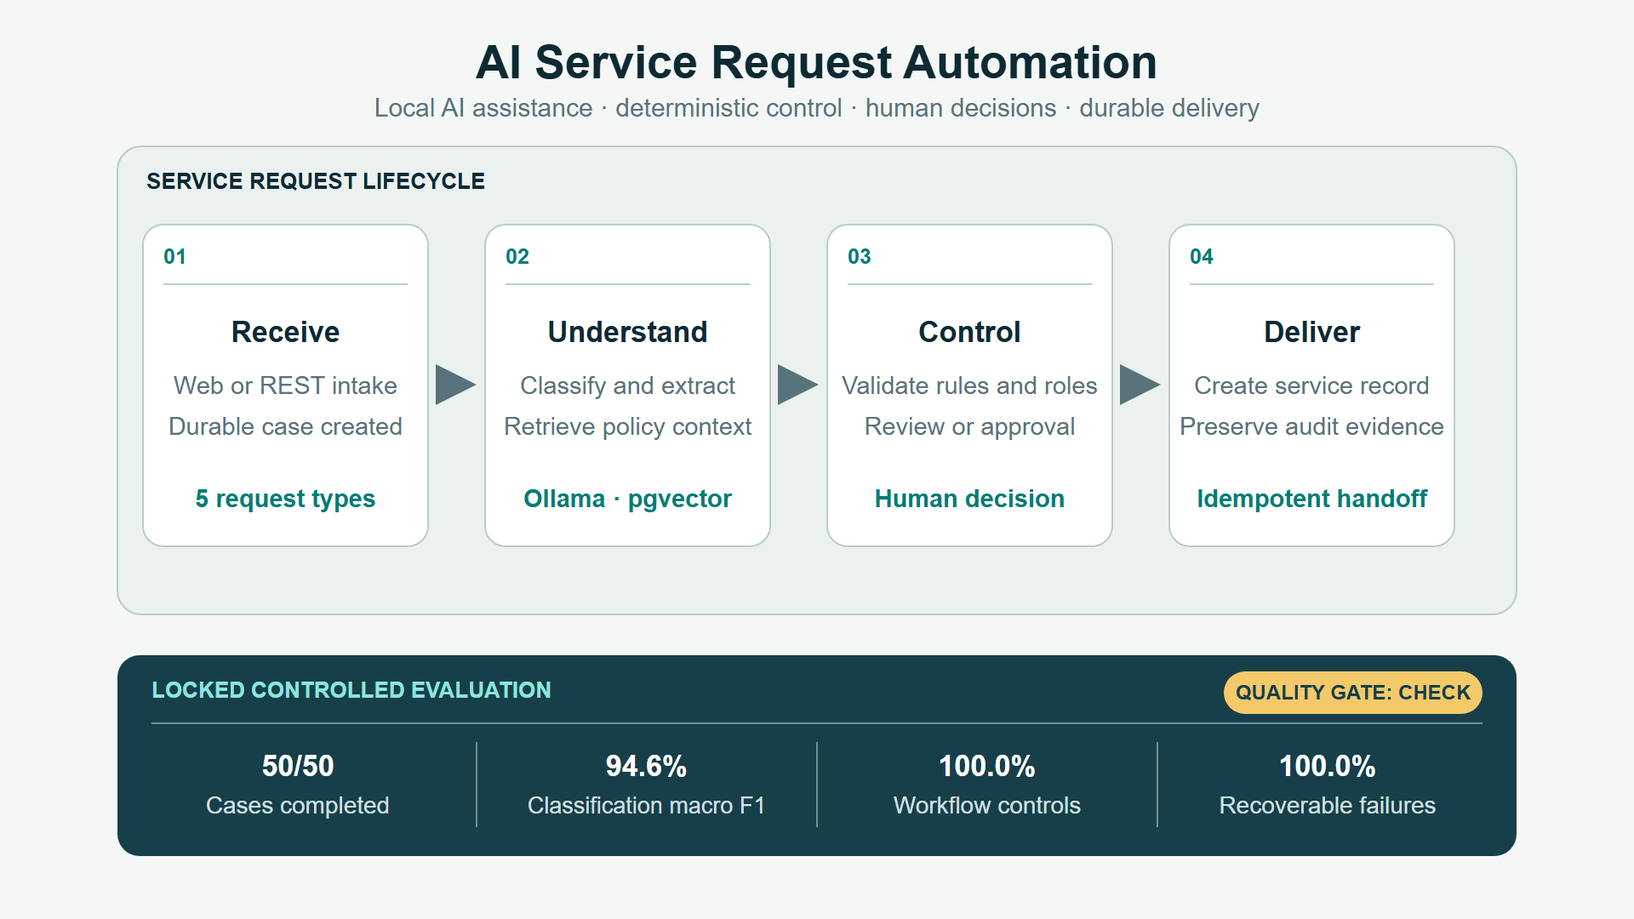
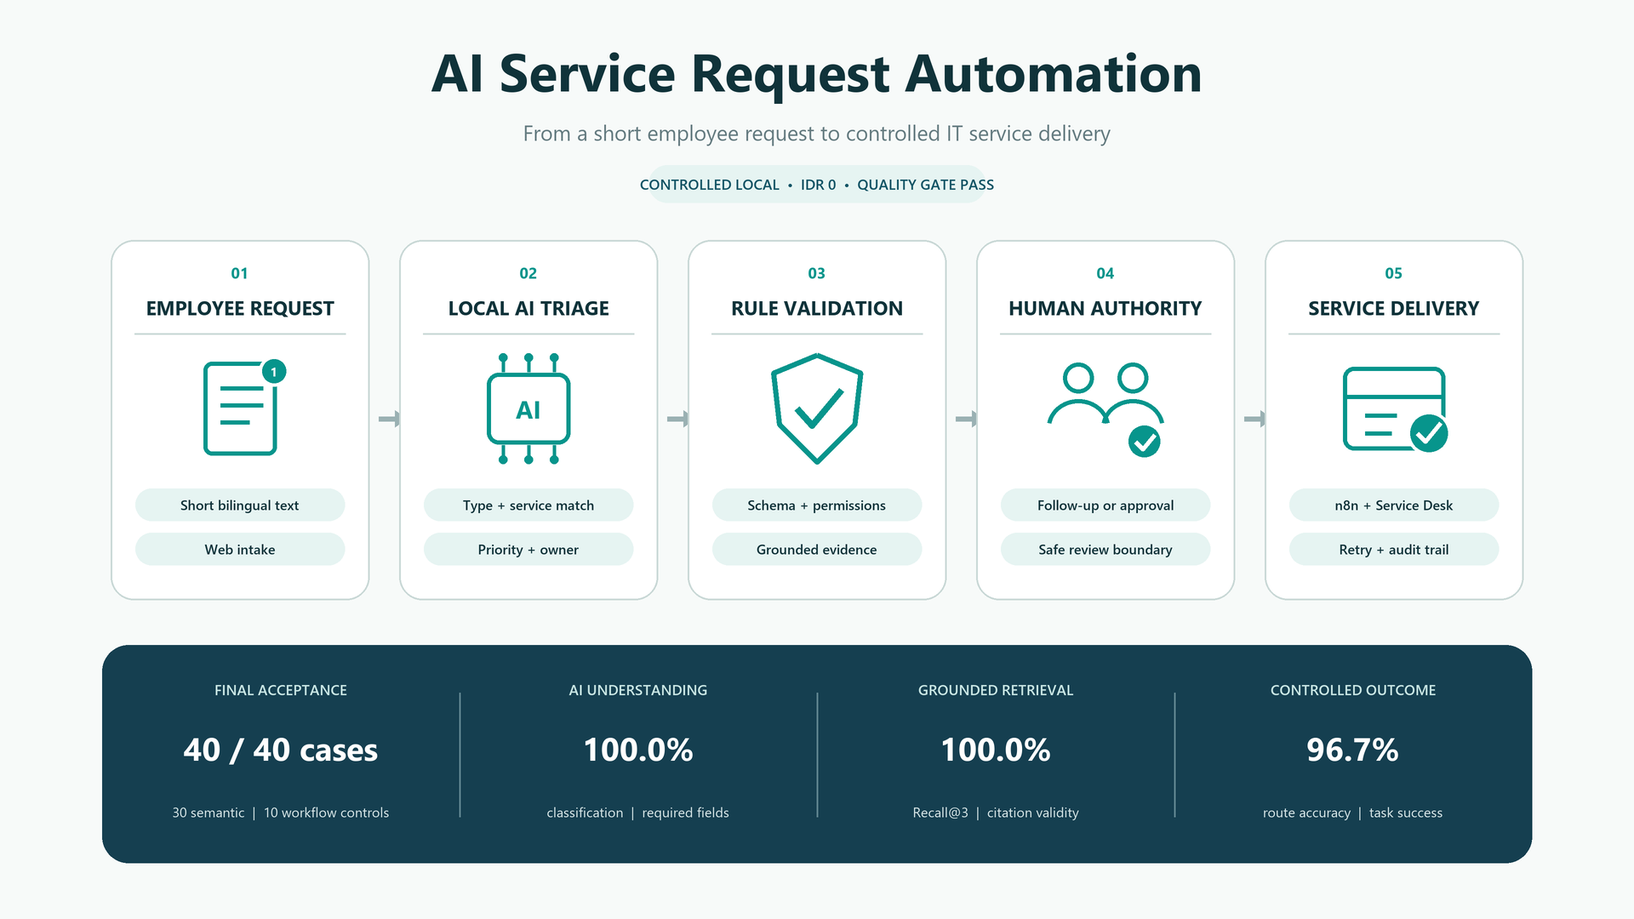
feat: refresh flagship project evidence

diff --git a/index.html b/index.html
@@ -77,7 +77,7 @@
     <script>
       (() => {
         const releaseParameter = "release";
-        const embeddedRelease = "20260820-03";
+        const embeddedRelease = "20260823-01";
         const loadedRelease = new URLSearchParams(window.location.search).get(releaseParameter);
         const releaseMarkerUrl = new URL("site-version.json", window.location.href);
         releaseMarkerUrl.searchParams.set("check", Date.now().toString());
@@ -261,21 +261,21 @@
                   <dl class="case-details">
                     <div><dt>Data &amp; Context</dt><dd>Used 3,000,888 labeled rows from the Kaggle Store Sales competition covering 2013–2017. The prediction contract produces 1 forecast for every date, store, and product-family combination over the next 16 days.</dd></div>
                     <div><dt>Approach</dt><dd>Compared 3 Ridge settings with 27 XGBoost configurations on a fixed chronological validation window. XGBoost was selected by RMSLE, then the frozen configuration was evaluated in 1 protected internal-test window.</dd></div>
-                    <div><dt>Validation &amp; Delivery</dt><dd>The selected model recorded internal-test RMSLE of 0.4140 and WAPE of 15.6431%. Its versioned artifact generated 28,512 forecasts, while fresh-process batch, local FastAPI, and healthy Docker inference matched the notebook output. All 38 synthetic contract tests also passed in GitHub Actions.</dd></div>
+                    <div><dt>Validation &amp; Delivery</dt><dd>The selected model recorded internal-test RMSLE of 0.4140 and WAPE of 15.6431%. Its versioned artifact generated 28,512 forecasts, while fresh-process batch, local FastAPI, and healthy Docker inference matched the notebook output. All 44 core contract tests also passed in GitHub Actions.</dd></div>
                   </dl>
                 </details>
               </div>
               <div class="project-result-column">
                 <figure class="project-visual">
-                  <a class="project-image-link" href="assets/projects/retail-sales-forecasting.png?v=20260816g" target="_blank" rel="noopener noreferrer" aria-label="Open the retail forecasting system visual at full size">
-                    <img src="assets/projects/retail-sales-forecasting.png?v=20260816g" alt="Retail forecasting flow from 6 source tables through forecast-safe features, Ridge and XGBoost selection by validation RMSLE, a versioned artifact, and matching batch, FastAPI, and Docker inference" width="1920" height="1080" loading="lazy" decoding="async">
+                  <a class="project-image-link" href="assets/projects/retail-sales-forecasting.png?v=20260821a" target="_blank" rel="noopener noreferrer" aria-label="Open the retail forecasting system visual at full size">
+                    <img src="assets/projects/retail-sales-forecasting.png?v=20260821a" alt="Retail forecasting flow from 6 source tables through forecast-safe features, Ridge and XGBoost selection by validation RMSLE, a versioned artifact, and matching batch, FastAPI, and Docker inference" width="1920" height="1080" loading="lazy" decoding="async">
                   </a>
                   <figcaption>1 versioned XGBoost artifact drives the same 16-day contract across batch, FastAPI, and Docker inference.</figcaption>
                 </figure>
                 <div class="metric-row" aria-label="Retail forecasting internal-test and delivery results">
                   <div><strong>15.6431%</strong><span>Internal-Test WAPE</span></div>
                   <div><strong>28,512</strong><span>16-Day Forecast Rows</span></div>
-                  <div><strong>38/38</strong><span>Contract Tests Passed</span></div>
+                  <div><strong>44/44</strong><span>Core Contract Tests Passed</span></div>
                 </div>
                 <p class="project-output"><strong>Project Output</strong><span>The system produces a checked 16-day forecast for every store-family series, giving planning teams a consistent demand view through the same reusable artifact across batch, API, and containerized inference.</span></p>
                 <p class="project-interpretation"><strong>Evidence &amp; Scope</strong><span>1 fixed validation window and 1 protected internal-test window establish RMSLE, WAPE, and signed-bias evidence on 2013–2017 competition data. The locally verified containerized API serves the complete 28,512-row, 16-day product-family forecast through the same versioned artifact used by batch inference.</span></p>
@@ -292,33 +292,33 @@
                 <div class="project-kicker"><span>03</span><p>AI automation &amp; workflow engineering | Python/FastAPI, n8n, PostgreSQL/pgvector, Ollama, Docker</p></div>
                 <h3>AI Service Request Automation</h3>
                 <dl class="case-details">
-                  <div><dt>Problem</dt><dd>Service teams repeatedly interpret requests, verify required details, consult policies, decide routes, create downstream records, and communicate outcomes. Manual handling makes consistent decisions, duplicate protection, failure recovery, and auditability difficult to maintain.</dd></div>
-                  <div><dt>My Contribution</dt><dd>Designed and implemented 1 end-to-end automation for 5 request types across REST and web intake, local AI analysis, policy retrieval, deterministic validation, role-based human decisions, durable orchestration, downstream delivery, notification, and operational recovery.</dd></div>
+                  <div><dt>Problem</dt><dd>Employees often submit short bilingual IT messages instead of complete ticket fields. Service teams must repeatedly infer the issue, catalog owner, priority, missing question, policy, and next action before useful work can begin.</dd></div>
+                  <div><dt>My Contribution</dt><dd>Designed and implemented 1 end-to-end automation spanning web and REST intake, an 8-category IT catalog, local AI analysis and retrieval, deterministic controls, human authority, durable n8n orchestration, Service Desk delivery, notification, retry, and recovery.</dd></div>
                 </dl>
                 <details class="project-deep-dive">
                   <summary>Technical details</summary>
                   <dl class="case-details">
-                    <div><dt>Data &amp; Context</dt><dd>The controlled local system handles policy questions, incident reports, access requests, data-change requests, and status requests using fictional bilingual cases, policies, users, permissions, and downstream records.</dd></div>
-                    <div><dt>Approach</dt><dd>FastAPI and PostgreSQL own permissions, state, approvals, idempotency, retries, and audit evidence. n8n coordinates 3 workflow entries, Ollama supplies local analysis and embeddings, and a separate Service Desk Sandbox reproduces downstream outcomes.</dd></div>
-                    <div><dt>Validation &amp; Controls</dt><dd>The locked 50-case evaluation reached 94.6% classification macro F1, 88.3% required-field accuracy, 30.0% route accuracy, and 20.0% semantic task success. The fixed quality gate is CHECK, so human review remains part of the reliable operating boundary.</dd></div>
+                    <div><dt>Data &amp; Context</dt><dd>The controlled local system handles 5 backend request types across 8 employee IT categories using fictional English and Indonesian cases, policies, identities, permissions, approvals, and downstream records.</dd></div>
+                    <div><dt>Approach</dt><dd>FastAPI and PostgreSQL own permissions, state, validation, approvals, idempotency, and audit evidence. n8n coordinates authenticated workflow entries, while local Ollama models provide structured analysis, catalog matching, and grounded policy retrieval behind deterministic and human controls.</dd></div>
+                    <div><dt>Validation &amp; Controls</dt><dd>The frozen final gate completed 40/40 cases. Classification, required fields, retrieval, and citations reached 100.0%; route and semantic task success reached 96.7%. Of 30 semantic requests, 27 progressed without service-agent triage review and 3 were safely held for review.</dd></div>
                   </dl>
                 </details>
               </div>
               <div class="project-result-column">
                 <figure class="project-visual">
-                  <a class="project-image-link" href="assets/projects/ai-service-request-automation.png?v=20260820b" target="_blank" rel="noopener noreferrer" aria-label="Open the AI Service Request Automation lifecycle and evaluation visual at full size">
-                    <img src="assets/projects/ai-service-request-automation.png?v=20260820b" alt="AI Service Request Automation lifecycle from intake through local AI understanding, deterministic control, and durable delivery, with 50 completed evaluation cases, 94.6% classification macro F1, 100.0% workflow controls, 100.0% recoverable failures, and quality gate CHECK" width="1920" height="1080" loading="lazy" decoding="async">
+                  <a class="project-image-link" href="assets/projects/ai-service-request-automation.png?v=20260823a" target="_blank" rel="noopener noreferrer" aria-label="Open the AI Service Request Automation lifecycle and evaluation visual at full size">
+                    <img src="assets/projects/ai-service-request-automation.png?v=20260823a" alt="AI Service Request Automation flow from a short employee request through local AI triage, rule validation, human authority, and Service Desk delivery, with 40 of 40 final cases completed, 100 percent classification and required fields, 100 percent retrieval and citation validity, 96.7 percent route and task success, and a passing controlled local quality gate" width="1920" height="1080" loading="lazy" decoding="async">
                   </a>
-                  <figcaption>The local lifecycle keeps model proposals behind deterministic validation, role-based human decisions, durable delivery, and recovery evidence.</figcaption>
+                  <figcaption>Short employee messages become catalog-matched service work while deterministic rules and accountable people retain authority.</figcaption>
                 </figure>
                 <div class="metric-row four-metrics" aria-label="AI Service Request Automation controlled evaluation results">
-                  <div><strong>50/50</strong><span>Cases Completed</span></div>
-                  <div><strong>94.6%</strong><span>Classification Macro F1</span></div>
-                  <div><strong>100.0%</strong><span>Workflow Controls</span></div>
-                  <div><strong>100.0%</strong><span>Recoverable Failures</span></div>
+                  <div><strong>40/40</strong><span>Final Cases Completed</span></div>
+                  <div><strong>100.0%</strong><span>Classification &amp; Fields</span></div>
+                  <div><strong>100.0%</strong><span>Retrieval &amp; Citations</span></div>
+                  <div><strong>96.7%</strong><span>Route &amp; Task Success</span></div>
                 </div>
-                <p class="project-output"><strong>Project Output</strong><span>Delivered a reproducible local application with role-based case handling, durable orchestration, human approval and exception paths, downstream API integration, scheduled recovery, controlled runners, and checksum-locked evaluation evidence.</span></p>
-                <p class="project-interpretation"><strong>Evidence &amp; Scope</strong><span>The locked bilingual evaluation used 50 fictional cases and fixed pre-observation targets. The fixed quality gate is CHECK: deterministic workflow and recovery safeguards passed, while the selected local analysis pipeline still requires human review. Evidence is controlled local testing; production, real-user, and business-impact validation remain outside this result.</span></p>
+                <p class="project-output"><strong>Project Output</strong><span>Delivered a reproducible Employee Service Desk and authorized Service Operations workspace that turns short IT messages into traceable catalog work, asks at most 1 focused follow-up, and preserves approval, escalation, resolution, retry, and recovery evidence.</span></p>
+                <p class="project-interpretation"><strong>Evidence &amp; Scope</strong><span>The frozen final gate used 30 untouched bilingual semantic cases and 10 deterministic workflow controls. 90.0% progressed without service-agent triage review; all services and models cleaned up, and hosted or paid AI calls were 0. Results are controlled local evidence with fictional data, not production or measured business impact.</span></p>
                 <div class="project-links">
                   <a class="text-link" href="https://github.com/mthufailsamas/ai-service-request-automation" target="_blank" rel="noopener noreferrer">View repository <span aria-hidden="true">&#8599;</span></a>
                 </div>

diff --git a/PROJECT.md b/PROJECT.md
@@ -103,16 +103,11 @@ This safeguard removes the normal post-deployment cache wait after it has reache
 
 **Release-freshness safeguard status:** Published at portfolio commit `3d4fd4a17167ff96a9552dcb03af3809afeef916` with release `20260816-01`; Pages run `31955310151` completed successfully. The live release marker and versioned HTML expose the approved freshness check.
 
-**AI Service Request Automation publication status:** The evidence-bounded card
-was published at portfolio commit `96cd06614a5dd268f991c9b7ab9885a78c1ffed6`
-with release `20260820-02`; Pages run `32332704734` completed successfully. Its
-dedicated public repository is now verified at
-`https://github.com/mthufailsamas/ai-service-request-automation`. Portfolio
-commit `66ac77b042cfd5e305a47a5dde9648e1c6d515f3` and Pages run `32333546672`
-published its card link through release `20260820-03`. The live release marker,
-repository HTTP response, link target and rel attributes, visible `CHECK`
-boundary, horizontal layout, and browser warning/error state all passed final
-verification.
+**AI Service Request Automation publication status:** A new evidence-aligned
+card is prepared locally from the accepted 40-case final `PASS`. It replaces
+the superseded locked-50-case `CHECK` metrics, uses the corrected public
+`v1.0.0` source, and adds a Full HD lifecycle visual. Publication and live
+Pages verification are pending.
 
 ## 2. Evidence required for each role family
 
@@ -254,36 +249,36 @@ Copy this block for each audited project. Do not remove required fields.
 ### retail-sales-forecasting-ai-engineering
 
 - **Workspace folder:** `C:/Users/Thufail/Documents/Portfolio/Independent Projects/AI Engineer/`
-- **Source-of-truth files inspected:** `AGENTS.md`, `PROJECT.md`, `README.md`, the current Git worktree, public `main` at `91d363da7b536d25989e0465e8b767a0e9613196`, release `v1.0.0` at `71de0055bf61767d7c1e4e995c22efad9d7c6d48`, and their successful GitHub Actions evidence in the workspace above.
-- **Last audited:** 2026-08-16
+- **Source-of-truth files inspected:** `AGENTS.md`, `PROJECT.md`, `README.md`, the current Git worktree, public `main` at `b044bfafe251254d02606f4e326fc98f15a8d1c9`, release `v1.0.0` at `71de0055bf61767d7c1e4e995c22efad9d7c6d48`, and successful GitHub Actions run `32442894170`.
+- **Last audited:** 2026-08-21
 - **Display title:** Retail Sales Forecasting & Planning System
 - **Context:** Independent portfolio project using authorized Kaggle competition data, controlled chronological model evaluation, and locally verified batch, API, and Docker inference.
 - **Primary role family:** AI/ML Engineering
 - **Supporting role families:** Data Science
-- **Verified metrics:** Validation RMSLE 0.4131 and WAPE 13.5188%; protected internal-test RMSLE 0.4140, WAPE 15.6431%, and signed bias 0.7623%; 28,512 forecasts across 1,782 store-family series; 38/38 synthetic contract tests passed; local FastAPI and healthy Docker inference each matched all 28,512 notebook predictions; GitHub Actions runs `31933494858`, `31933502820`, and documentation-audit run `31945863065` completed successfully.
+- **Verified metrics:** Validation RMSLE 0.4131 and WAPE 13.5188%; protected internal-test RMSLE 0.4140, WAPE 15.6431%, and signed bias 0.7623%; 28,512 forecasts across 1,782 store-family series; 44/44 core contract tests passed locally and in GitHub Actions; local FastAPI and healthy Docker inference each matched all 28,512 notebook predictions.
 - **Public repository:** https://github.com/mthufailsamas/retail-sales-forecasting-ai-engineering
 - **Visual asset source:** Five stage icons from the official MIT-licensed Bootstrap Icons library, rasterized into the local project PNG with no runtime third-party request.
 - **Limitations:** The competition data covers 2013-2017 and supports product-family rather than SKU forecasting. The source does not provide inventory, supplier, cost, margin, or capacity inputs. Model evidence comes from one fixed validation window and one protected internal-test window. Runtime verification is local and containerized; no external deployment or live business impact has been demonstrated.
 - **Approved Project Output wording:** The system produces a checked 16-day forecast for every store-family series, giving planning teams one consistent demand view through the same reusable artifact across batch, API, and containerized inference.
 - **Approved Evidence & Scope wording:** One fixed validation window and one protected internal-test window establish RMSLE, WAPE, and signed-bias evidence on 2013–2017 competition data. The locally verified containerized API serves the complete 28,512-row, 16-day product-family forecast through the same versioned artifact used by batch inference.
-- **Portfolio status:** Published at portfolio commit `bd89470a0e9a03cd9d01f3a592daef469b3ae0f7`; Pages run `31949697620` completed successfully. The live card uses the evidence-aligned wording and streamlined model-selection visual. Desktop and 390-pixel mobile checks found no horizontal overflow, missing asset, or browser warning.
+- **Portfolio status:** Approved revision prepared locally with 44/44 core contract evidence and an updated Full HD visual. Publication and Pages verification are pending.
 
 ### ai-service-request-automation
 
 - **Workspace folder:** `C:/Users/Thufail/Documents/Portfolio/Independent Projects/AI Automation/`
-- **Source-of-truth files inspected:** `AGENTS.md`, `PROJECT.md`, `README.md`, `docs/EVALUATION_RESULTS.md`, `docs/END_TO_END_CONTRACT.md`, `docs/RECOVERY_OPERATIONS_CONTRACT.md`, the locked evidence JSON, local Git commit `3167a03`, public `main` at the same commit, and public release `v1.0.0` in the workspace above.
-- **Last audited:** 2026-08-20
+- **Source-of-truth files inspected:** `AGENTS.md`, `PROJECT.md`, `README.md`, `docs/PORTFOLIO_HANDOFF.md`, `docs/EVALUATION_RESULTS.md`, `docs/END_TO_END_CONTRACT.md`, `docs/RECOVERY_OPERATIONS_CONTRACT.md`, the frozen final evidence JSON, local and public `main` at `8695a60e77d92504e9fa402a0d818082cd82712d`, and the sole public release `v1.0.0` at the same commit.
+- **Last audited:** 2026-08-23
 - **Display title:** AI Service Request Automation
 - **Context:** Independent portfolio project using fictional bilingual service requests, policies, users, permissions, and downstream records in controlled local evaluation.
 - **Primary role family:** AI Automation
 - **Supporting role families:** AI/ML Engineering and Data Engineering
-- **Verified metrics:** The locked 50-case controlled evaluation completed 40 semantic and 10 workflow-control cases. Classification macro F1 was 94.6%, required-field accuracy 88.3%, policy retrieval Recall@3 0.0%, citation validity 0.0%, route and final-state accuracy 30.0%, semantic task success 20.0%, workflow-control pass rate 100.0%, and recoverable-failure pass rate 100.0%. The combined local lifecycle passed 7/7 groups; scheduled recovery and operations passed 6/6 groups. Hosted or paid AI calls were 0.
+- **Verified metrics:** The frozen final gate completed 40/40 cases: 30 untouched bilingual semantic cases and 10 deterministic workflow controls. Classification macro F1, required-field accuracy, policy Recall@3, citation validity, workflow controls, and recoverable failures were 100.0%; route and final-state accuracy and semantic task success were 96.7%. 27/30 semantic requests (90.0%) progressed without service-agent triage review, with 3 safely held for review. Hosted or paid AI calls were 0.
 - **Public repository:** https://github.com/mthufailsamas/ai-service-request-automation
-- **Visual asset source:** Project-native lifecycle and evaluation diagram rendered locally as a 1920x1080 PNG with no third-party image or runtime request.
-- **Limitations:** Evidence uses fictional data and controlled local services. The fixed quality gate is `CHECK`: the selected local analysis pipeline still requires human review, and no external deployment, real-user use, or measured business impact has been demonstrated.
-- **Approved Project Output wording:** Delivered a reproducible local application with role-based case handling, durable orchestration, human approval and exception paths, downstream API integration, scheduled recovery, controlled runners, and checksum-locked evaluation evidence.
-- **Approved Evidence & Scope wording:** The locked bilingual evaluation used 50 fictional cases and fixed pre-observation targets. The fixed quality gate is `CHECK`: deterministic workflow and recovery safeguards passed, while the selected local analysis pipeline still requires human review. Evidence is controlled local testing; production, real-user, and business-impact validation remain outside this result.
-- **Portfolio status:** Published with its verified repository link at portfolio commit `66ac77b042cfd5e305a47a5dde9648e1c6d515f3`; Pages run `32333546672` completed successfully, and live release `20260820-03` matches this registry record.
+- **Visual asset source:** Project-native 5-stage lifecycle and evaluation infographic rendered locally as a 1920x1080 PNG with no third-party image or runtime request.
+- **Limitations:** Evidence uses fictional data, installed local models, and controlled local services. The system retains deterministic and human authority around probabilistic output. No external deployment, real-user adoption, production throughput, employee hours saved, uptime change, financial return, or other live business impact has been demonstrated.
+- **Approved Project Output wording:** Delivered a reproducible Employee Service Desk and authorized Service Operations workspace that turns short IT messages into traceable catalog work, asks at most 1 focused follow-up, and preserves approval, escalation, resolution, retry, and recovery evidence.
+- **Approved Evidence & Scope wording:** The frozen final gate used 30 untouched bilingual semantic cases and 10 deterministic workflow controls. 90.0% progressed without service-agent triage review; all services and models cleaned up, and hosted or paid AI calls were 0. Results are controlled local evidence with fictional data, not production or measured business impact.
+- **Portfolio status:** Approved revision prepared locally from the corrected public `v1.0.0` source, the 40-case final `PASS`, and a new Full HD lifecycle visual. Publication and Pages verification are pending.
 
 ### dwdm-optical-sensor-monitoring
 
@@ -361,8 +356,8 @@ These entries are audit directions only. They are not completed registry records
 
 | Project candidate | Workspace routing | Provisional direction | Registry status |
 | --- | --- | --- | --- |
-| Retail Sales Forecasting | `C:/Users/Thufail/Documents/Portfolio/Independent Projects/AI Engineer/`; follow its `AGENTS.md` and project source of truth | The live card matches the approved sharper Project Output and Evidence & Scope wording | Published |
-| AI Service Request Automation | `C:/Users/Thufail/Documents/Portfolio/Independent Projects/AI Automation/`; follow its `AGENTS.md` and project source of truth | The live card matches the evidence-bounded service-request registry record | Published |
+| Retail Sales Forecasting | `C:/Users/Thufail/Documents/Portfolio/Independent Projects/AI Engineer/`; follow its `AGENTS.md` and project source of truth | Publish the verified 44/44 core contract evidence | Approved; publication pending |
+| AI Service Request Automation | `C:/Users/Thufail/Documents/Portfolio/Independent Projects/AI Automation/`; follow its `AGENTS.md` and project source of truth | Publish the 40-case final `PASS`, 90.0% controlled triage result, and corrected `v1.0.0` source | Approved; publication pending |
 | DWDM Monitoring | `C:/Users/Thufail/Documents/Portfolio/Professional Projects/Lintasarta DWDM Monitoring/` | Context verified; complete the quantitative evidence audit before revising technical claims | Audit in progress |
 | Academic project claims | Use each project-specific workspace record above | Context verified; metrics and live wording still require project-by-project evidence audits | Audit in progress |
 
